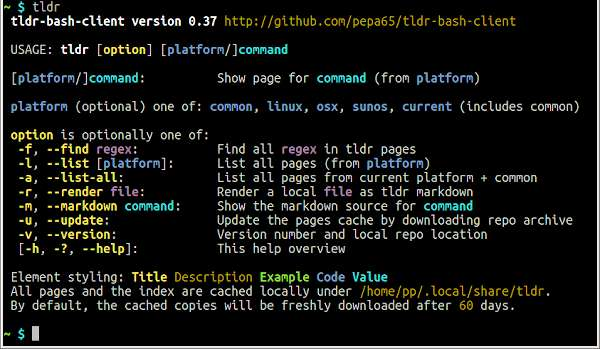
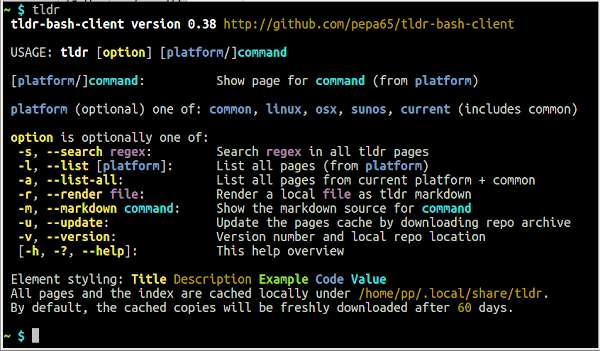
Release 0.38 Rename find to search to be in line with tldr node client

diff --git a/README.md b/README.md
@@ -1,6 +1,6 @@
 # tldr-bash-client
 
-* version 0.37
+* version 0.38
 
 ### Bash client for tldr: community driven man-by-example
 **A fully-functional [bash](https://tiswww.case.edu/php/chet/bash/bashtop.html)
